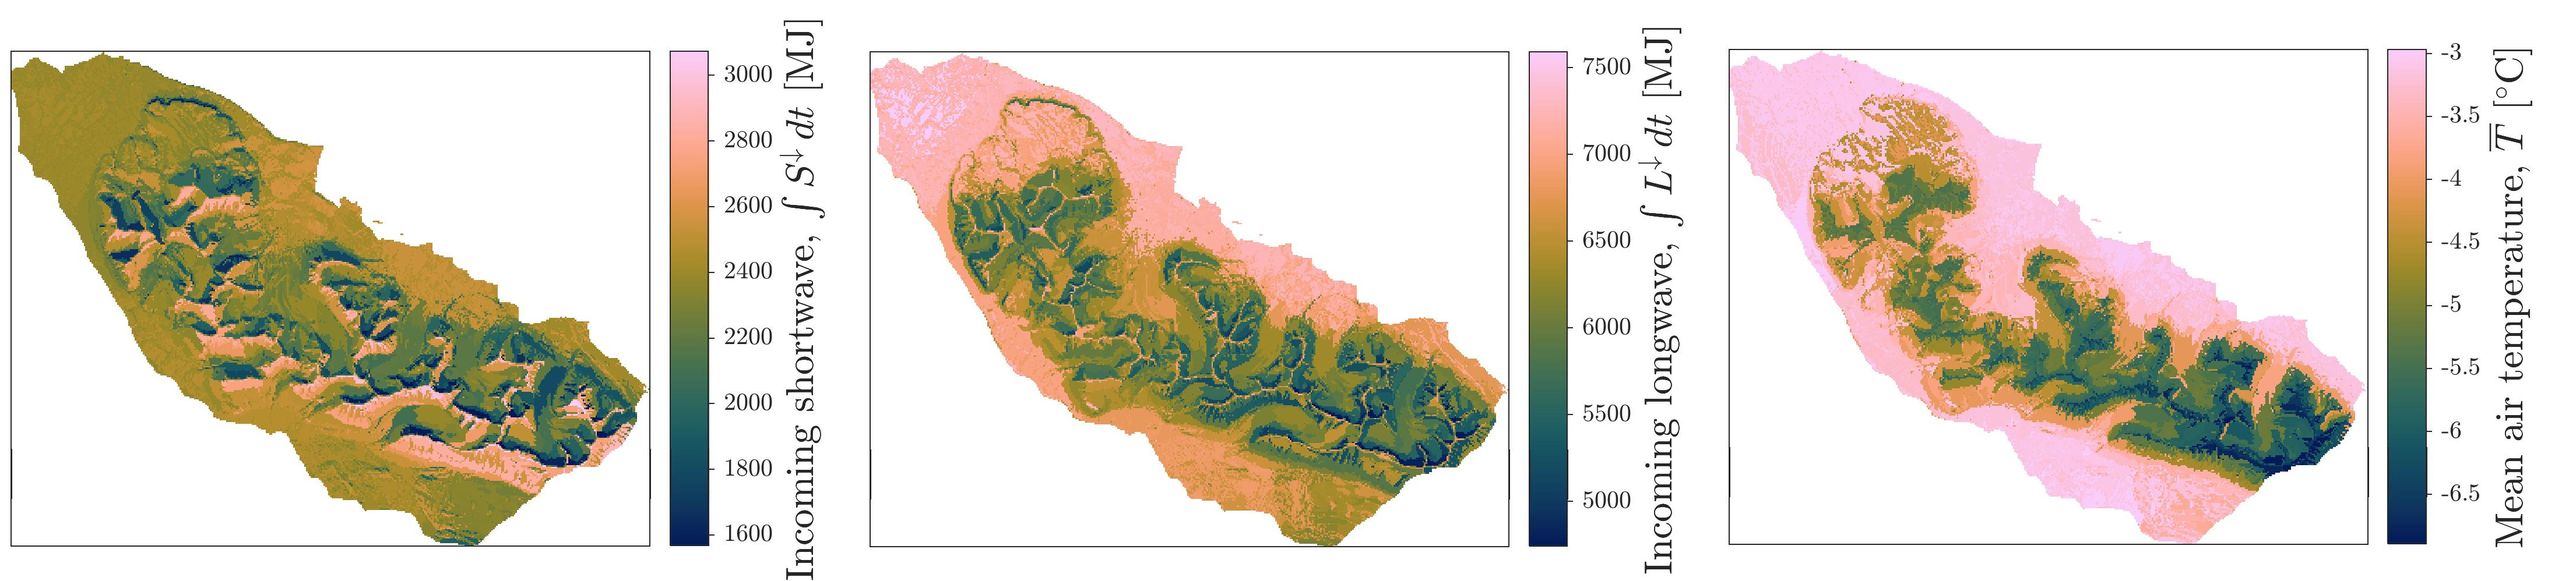
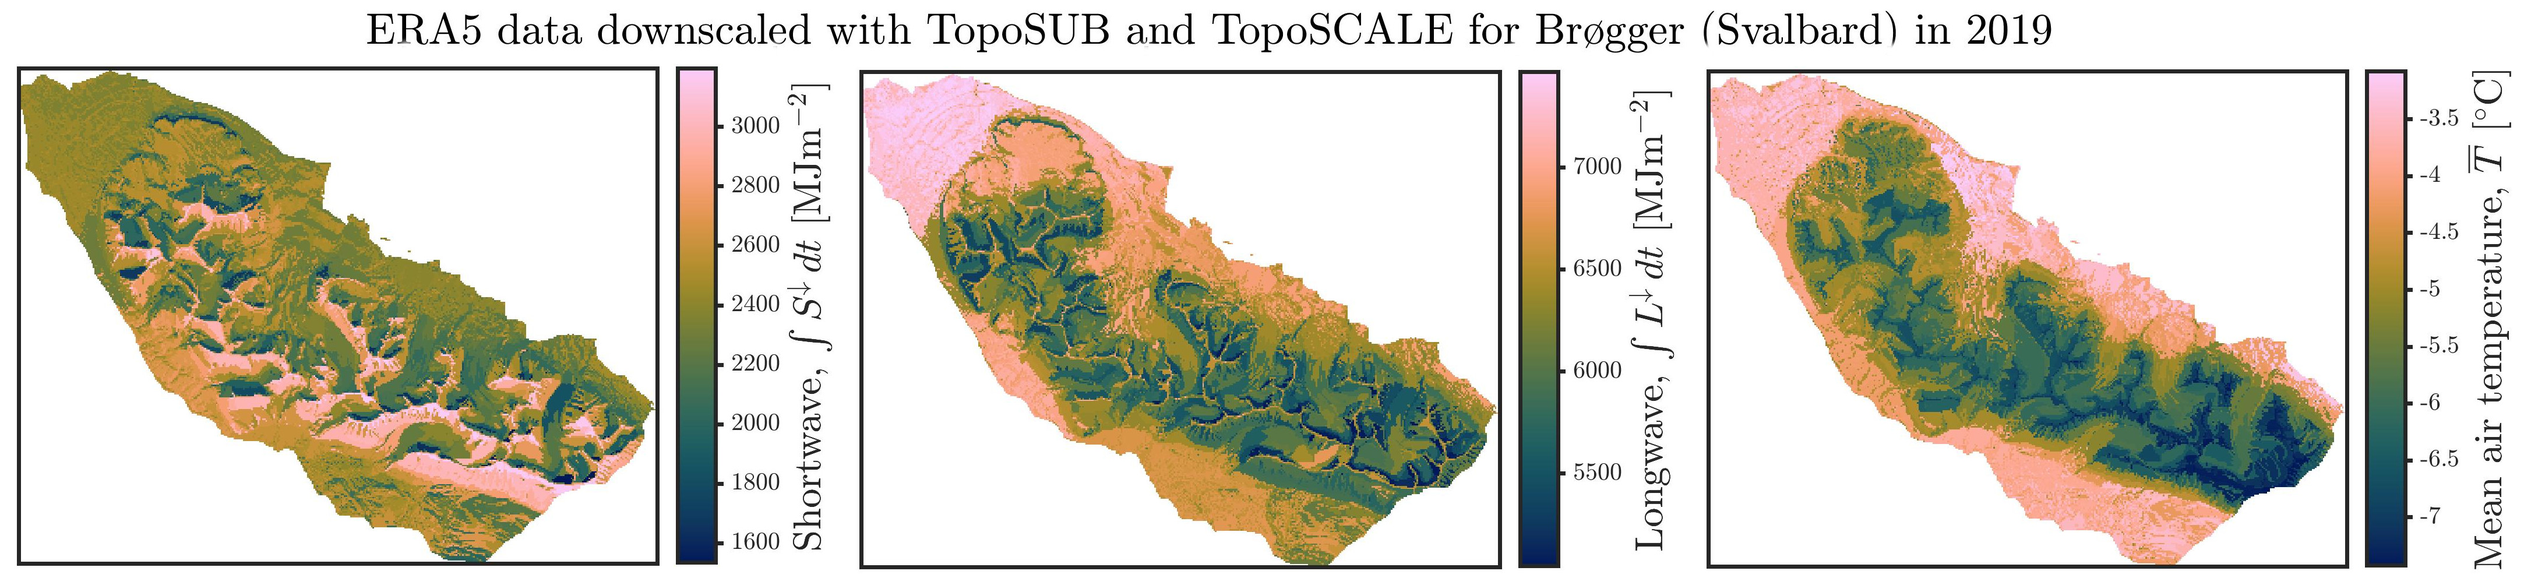
Updated figure

diff --git a/main.m b/main.m
@@ -161,14 +161,15 @@ axis xy;
 xlim(xl); ylim(yl);
 pbaspect([1 dyl/dxl 1]);
 %title('Annual incoming shortwave','Interpreter','Latex','FontSize',16);
-set(gca,'XTick',[],'YTick',[]);
+set(gca,'XTick',[],'YTick',[],'LineWidth',1.5);
 colormap(ax1,batlow);
 c=colorbar;
 c.TickLabelInterpreter='latex';
 c.TickDirection='out';
 c.FontSize=10;
+c.LineWidth=1.5;
 caxis([min(img(:)) max(img(:))]);
-xlabel(c,'Incoming shortwave, $\int S^\downarrow \,  dt$ [MJ]',...
+xlabel(c,'Shortwave, $\int S^\downarrow \,  dt$ [MJm$^{-2}$]',...
     'Interpreter','Latex','FontSize',16);
 
 ax2=subplot(2,3,2);
@@ -184,14 +185,15 @@ axis xy;
 xlim(xl); ylim(yl);
 pbaspect([1 dyl/dxl 1]);
 %title('Annual incoming longwave','Interpreter','Latex','FontSize',16);
-set(gca,'XTick',[],'YTick',[]);
+set(gca,'XTick',[],'YTick',[],'LineWidth',1.5);
 colormap(ax2,batlow);
 c=colorbar;
 c.TickLabelInterpreter='latex';
 c.TickDirection='out';
 c.FontSize=10;
+c.LineWidth=1.5;
 caxis([min(img(:)) max(img(:))]);
-xlabel(c,'Incoming longwave, $\int L^\downarrow \,  dt$ [MJ]',...
+xlabel(c,'Longwave, $\int L^\downarrow \,  dt$ [MJm$^{-2}$]',...
     'Interpreter','Latex','FontSize',16);
 
 ax2=subplot(2,3,3);
@@ -207,12 +209,13 @@ axis xy;
 xlim(xl); ylim(yl);
 pbaspect([1 dyl/dxl 1]);
 %title('Annual mean air temperature','Interpreter','Latex','FontSize',16);
-set(gca,'XTick',[],'YTick',[]);
+set(gca,'XTick',[],'YTick',[],'LineWidth',1.5);
 colormap(ax2,batlow);
 c=colorbar;
 c.TickLabelInterpreter='latex';
 c.TickDirection='out';
 c.FontSize=10;
+c.LineWidth=1.5;
 caxis([min(img(:)) max(img(:))]);
 xlabel(c,'Mean air temperature, $\overline{T}$ [$^\circ$C]',...
     'Interpreter','Latex','FontSize',16);
@@ -251,4 +254,4 @@ title(sprintf('ERA5 data downscaled with TopoSUB and TopoSCALE for %s in 2019',s
     'Interpreter','Latex','FontSize',18);
 
 
-
+print('-djpeg','tmp','-r300','-opengl');
